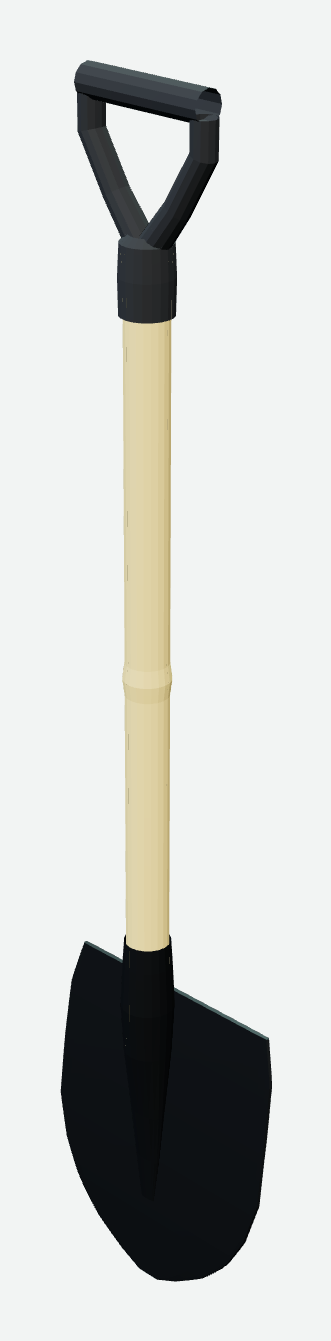
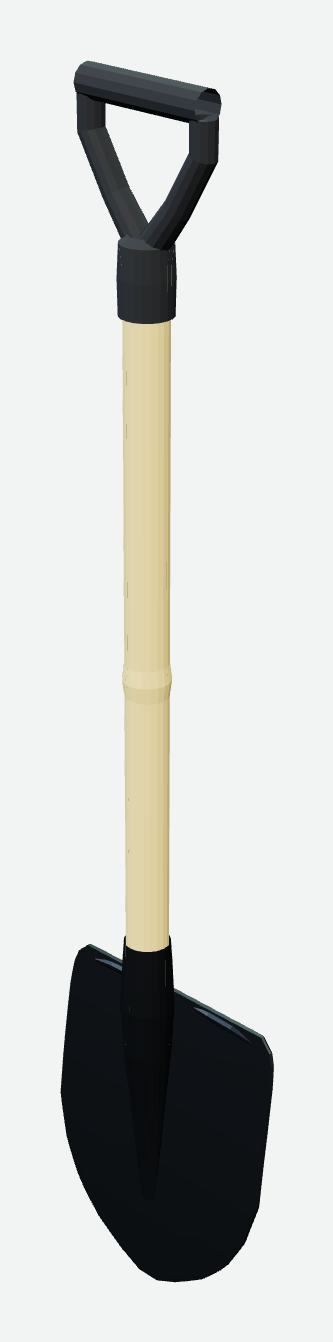
pa: a pestana existe, e o ombro deixa de ser bisel
DUAS CORRECOES DE FORMA, as duas apontadas sobre o desenho cotado da pa
comercial.

A PESTANA — a borda de cima virada, onde o pe pisa. Nome com ressalva: e o que
mais se ouve em pa no Brasil, ao lado de "aba de pisar" e "apoio de pe", e nao
achei norma que fixe um so termo; fica declarado que e nome de uso.

Ela NAO e ondulacao, e dobra: a chapa e a mesma, virada sobre si mesma no ombro.
Resolve tres coisas de uma vez — enrijece o ombro contra dobrar, tira o fio de
corte de onde o pe encosta, e da superficie plana para pisar. Ate aqui a peca nao
tinha nada disso: o ombro era so uma aresta de chapa.

E ela MORRE NA LATERAL, que e a parte que faltava: o raio da dobra diminui ate
sumir antes do canto, em vez de terminar em degrau.

O OMBRO virou canto arredondado. Ia de `meia * 0.985` a `meia * 0.90` em linha
reta e lia como chanfro qualquer com a boca aberta demais.

UM DEFEITO DE FERRAMENTA APARECEU NO CAMINHO, e vale registrar: `ativar:bancada`
respondeu "✓ Receita ativada com sucesso, 5 corpos" para uma receita que a
bancada recusou inteira na hora de desenhar (`orientacao` paralela a tangente do
loft, em 11 referencias). A ativacao valida menos do que a renderizacao, e diz
"sucesso" mesmo assim. Nao mexi nisso agora, mas quem confiar no ✓ vai perder
tempo achando que o problema esta na peca.

Dossie e receita corrigidos: onde estava "sem os nervos estampados" agora diz o
que a lamina TEM (nervo central e pestana) e o que ainda falta (o resto do
[…]

diff --git a/prototipos/procedural/v3/pecas/pa-de-bico-bambu.js b/prototipos/procedural/v3/pecas/pa-de-bico-bambu.js
@@ -38,7 +38,8 @@
  *     É achado de LEGIBILIDADE, não de geometria.
  *
  * O QUE ESTA PEÇA NÃO É. Não é desenho de fabricação: a lâmina é a forma geral
- * sem os nervos estampados, o bocal é um tronco de cone sem a costura, e a
+ * com o nervo central e a pestana, mas sem o resto do estampado; o bocal é um
+ * tronco de cone sem a costura, e a
  * empunhadura é o D em tubo sem o miolo moldado. Serve para julgar proporção,
  * encaixe e a aparência do conjunto — que é o que a pergunta pedia.
  */
@@ -87,10 +88,16 @@ const meia = L.largura / 2;
    paralelas no meio, ombros levemente recolhidos em cima, onde entra o bocal.
    A primeira versão punha 60 mm de largura já na PONTA e saía com cara de
    espátula; bico de pá é ponta, e é ela que entra na terra. */
+/* O OMBRO É CANTO ARREDONDADO, e não bisel. A primeira versão ia de
+   `meia * 0.985` a `meia * 0.90` em linha reta, e lia como um chanfro qualquer
+   com a boca aberta demais — apontado pelo usuário sobre o desenho cotado da pá
+   comercial, onde o canto vira num raio curto e a aresta de cima fica quase
+   reta entre os dois ombros. Os pontos abaixo descrevem esse raio. */
 const plantaMeia = [
   [0.000, 0.012], [0.012, 0.038], [0.032, 0.068], [0.058, 0.093],
-  [0.092, 0.112], [0.135, meia], [0.200, meia], [0.252, meia * 0.985],
-  [L.comprimento, meia * 0.90],
+  [0.092, 0.112], [0.135, meia], [0.200, meia], [0.248, meia * 0.995],
+  [0.268, meia * 0.980], [0.279, meia * 0.955], [0.286, meia * 0.915],
+  [L.comprimento, meia * 0.855],
 ];
 const plantaLamina = [
   ...plantaMeia.map(([z, x]) => [z, x]),
@@ -131,6 +138,35 @@ function perfilColmo(raioBase) {
     .filter((p, i, t) => i === 0 || p.y - t[i - 1].y > 1e-6)
     .map((p) => ({ pos: [0, p.y, 0], raio: p.r }));
 }
+
+/* A PESTANA — a borda de cima virada, onde o pé pisa.
+   Nome com ressalva: "pestana" é o que mais se ouve em pá no Brasil, ao lado de
+   "aba de pisar" e "apoio de pé"; não achei norma que fixe um só termo, então
+   fica declarado que é o nome de uso e não uma citação.
+
+   ELA NÃO É ONDULAÇÃO, É DOBRA. A chapa é a mesma, virada sobre si mesma no
+   ombro, e resolve três coisas de uma vez: enrijece o ombro contra dobrar, tira
+   o fio de corte de onde o pé encosta, e dá superfície plana para pisar. Sem
+   ela o ombro é só uma aresta de chapa, que foi como esta peça ficou até aqui.
+
+   E ELA MORRE NA LATERAL, que é a parte que o usuário viu no desenho e a nossa
+   não tinha: o raio da dobra vai diminuindo até sumir antes do canto, em vez de
+   terminar em degrau. Por isso a última seção tem raio quase nulo.
+
+   O eixo já está girado quando ela é construída: a lâmina nasce deitada em Z e
+   `rotaciona` põe o comprimento em Y, então a pestana corre em X (a largura),
+   na altura do topo da lâmina e recuada pela concha. */
+const yPestana = L.comprimento - 0.006;
+const zPestana = -(L.concha + L.espessura * 0.5);
+const RAIO_DA_PESTANA = 0.0052;
+
+const pestana = (sinal) => [
+  { pos: [sinal * 0.026, yPestana, zPestana], raio: RAIO_DA_PESTANA * 0.55 },
+  { pos: [sinal * 0.045, yPestana, zPestana], raio: RAIO_DA_PESTANA },
+  { pos: [sinal * 0.072, yPestana - 0.001, zPestana], raio: RAIO_DA_PESTANA },
+  { pos: [sinal * 0.094, yPestana - 0.004, zPestana], raio: RAIO_DA_PESTANA * 0.72 },
+  { pos: [sinal * meia * 0.87, yPestana - 0.010, zPestana], raio: RAIO_DA_PESTANA * 0.30 },
+];
 
 /* O D: dois montantes que abrem do topo do colmo e uma travessa que os une.
    Cada um é um loft de seção circular — o punho real tem miolo moldado, e a
@@ -203,6 +239,11 @@ export const receitaPaDeBicoBambu = {
         { pos: [0, yBocaTopo, 0], raio: Re + 0.0016 },
       ],
     }],
+    /* A pestana corre em X, então a referência do anel tem de ser TRANSVERSAL a
+       X — [1,0,0] é paralela à tangente e o motor recusa, com razão. */
+    ['loft', { origemId: 9, lados: 10, orientacao: [0, 1, 0], secoes: pestana(1) }],
+    ['loft', { origemId: 10, lados: 10, orientacao: [0, 1, 0], secoes: pestana(-1) }],
+
     ['loft', { origemId: 3, lados: C.lados, orientacao: [1, 0, 0], secoes: perfilColmo(Re) }],
     ['loft', { origemId: 4, lados: C.lados, orientacao: [1, 0, 0], secoes: perfilColmo(Ri) }],
     ['loft', { origemId: 5, lados: D.lados, orientacao: [0, 0, 1], secoes: montante(1) }],
@@ -232,6 +273,8 @@ export const receitaPaDeBicoBambu = {
     }],
 
     ['parte', { nome: 'lamina', sel: { origem: { op: 'inflate', id: 1 } } }],
+    ['parte', { nome: 'pestana', sel: { origem: { op: 'loft', id: 9 } } }],
+    ['parte', { nome: 'pestana', sel: { origem: { op: 'loft', id: 10 } } }],
     ['parte', { nome: 'bocal', sel: { origem: { op: 'loft', id: 2 } } }],
     ['parte', { nome: 'colmo', sel: { origem: { op: 'loft', id: 3 } } }],
     ['parte', { nome: 'furo', sel: { origem: { op: 'loft', id: 4 } } }],
@@ -242,6 +285,7 @@ export const receitaPaDeBicoBambu = {
 
     ['material', { usa: 'aco', sel: { grupo: 'lamina' } }],
     ['material', { usa: 'aco', sel: { grupo: 'bocal' } }],
+    ['material', { usa: 'aco', sel: { grupo: 'pestana' } }],
     ['material', { usa: 'bambu', sel: { grupo: 'colmo' } }],
     ['material', { usa: 'bambuInterno', sel: { grupo: 'furo' } }],
     ['material', { usa: 'borracha', sel: { grupo: 'punho' } }],

diff --git a/docs/mecanifica/DOSSIE-CABO-DE-PA.md b/docs/mecanifica/DOSSIE-CABO-DE-PA.md
@@ -28,7 +28,8 @@ externo com parede de 3 mm — a recomendação da seção 4.*
 forma, proporção e espessura de parede. **Não** serve para volume, massa nem
 exportação de fabricação: o colmo é modelado como pele externa mais furo, sem
 costura nas extremidades, e portanto não é sólido fechado. A lâmina é a forma
-geral, **sem os nervos estampados** que enrijecem a chapa real, e o bocal é um
+geral com o nervo central e a **pestana** — a borda de cima virada, onde o pé
+pisa — mas **sem o resto do estampado** que enrijece a chapa real, e o bocal é um
 tronco de cone sem a costura. Nenhuma dessas simplificações entra em conta
 nenhuma deste dossiê — as contas saem das propriedades do material, não da malha.
 
